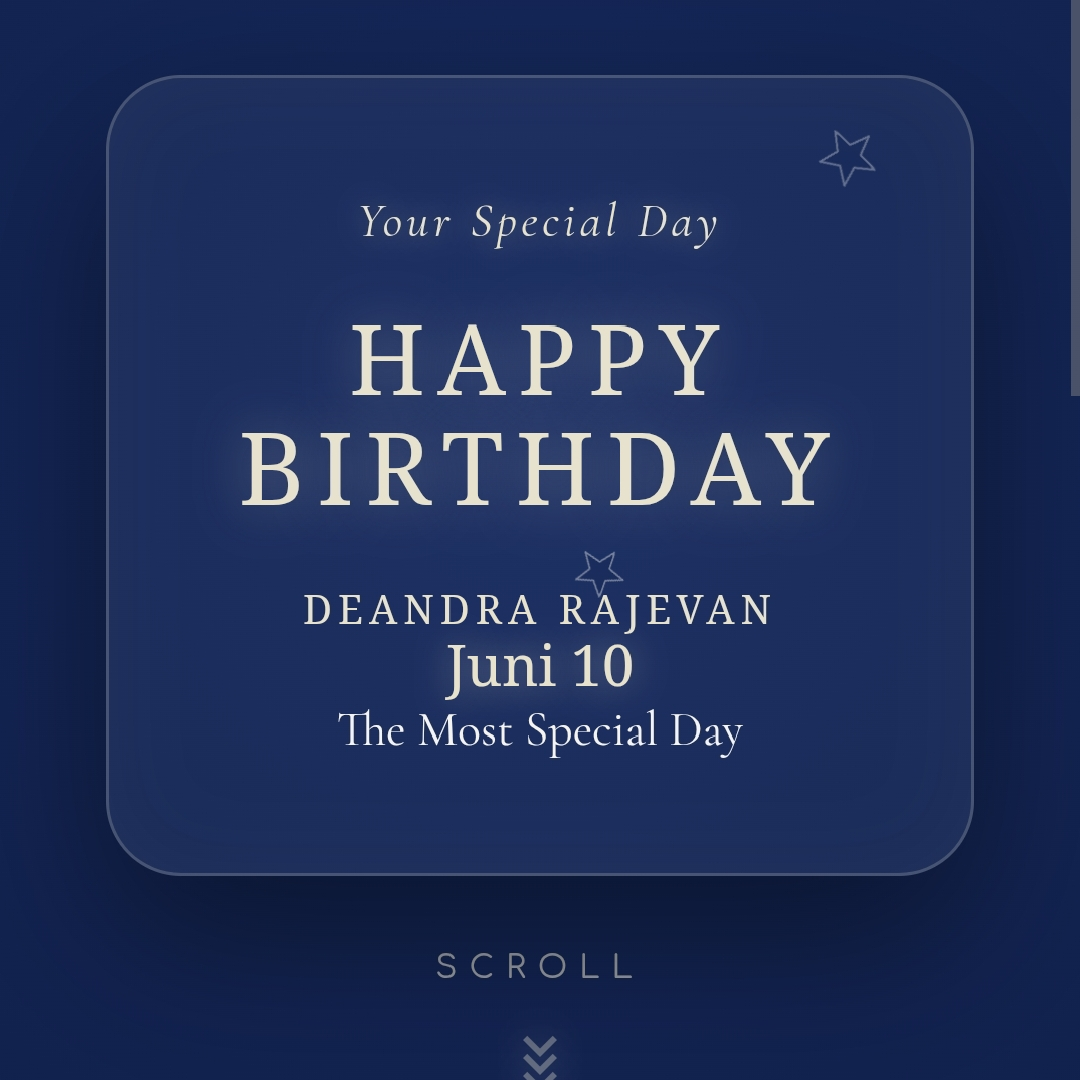
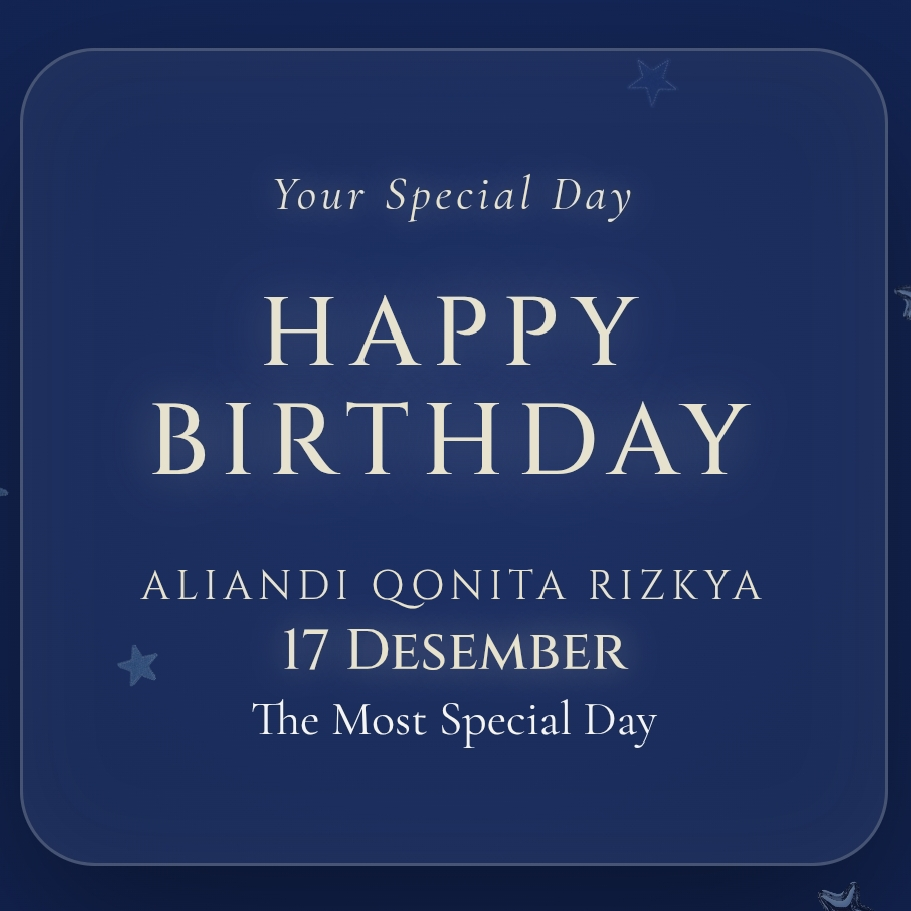
Add files via upload

diff --git a/index.html b/index.html
@@ -7,13 +7,13 @@
     
     <meta property="og:title" content="Astroluv | Aliandi's Day">
     <meta property="og:description" content="written in the stars, built for the main character.">
-    <meta property="og:image" content="https://by-luneva.github.io/astroluv/thumbnail.png?v=3">
-    <meta property="og:url" content="https://by-luneva.github.io/astroluv/">
+    <meta property="og:image" content="https://by-luneva.github.io/hbd_qonita/thumbnail.png?v=3">
+    <meta property="og:url" content="https://by-luneva.github.io/hbd_qonita/">
     <meta property="og:type" content="website">
     <meta name="twitter:card" content="summary_large_image">
     <meta name="twitter:title" content="Astroluv | Aliandi's Day">
     <meta name="twitter:description" content="written in the stars, built for the main character.">
-    <meta name="twitter:image" content="https://by-luneva.github.io/astroluv/thumbnail.png?v=3">
+    <meta name="twitter:image" content="https://by-luneva.github.io/hbd_qonita/thumbnail.png?v=3">
 
     <link rel="preconnect" href="https://fonts.googleapis.com">
     <link rel="preconnect" href="https://fonts.gstatic.com" crossorigin>
@@ -140,9 +140,12 @@
         .control-btn svg { width: 22px; height: 22px; fill: currentColor; }
         .play-main-btn svg { width: 28px; height: 28px; }
         .playlist-card { background: rgba(255,255,255,0.03); border: 1px solid rgba(231,226,206,0.12); padding: 10px; border-radius: 16px; margin-top: 14px; width: 100%; max-width: 290px; margin-inline: auto; box-shadow: 0 12px 32px rgba(0,0,0,0.35); }
-        .track { background: rgba(255,255,255,0.022); padding: 11px 14px; margin: 6px 0; border-radius: 12px; cursor: pointer; display: grid; grid-template-columns: 1.2fr 1fr; font-size: 9pt; font-family: 'Comfortaa', sans-serif; transition: background 0.2s ease, transform 0.2s ease, border-color 0.2s ease; border: 1px solid transparent; }
+        .track { background: rgba(255,255,255,0.022); padding: 11px 14px; margin: 6px 0; border-radius: 12px; cursor: pointer; display: flex; justify-content: space-between; align-items: center; font-size: 9pt; font-family: 'Comfortaa', sans-serif; transition: background 0.2s ease, transform 0.2s ease, border-color 0.2s ease; border: 1px solid transparent; }
+        .track span:first-child { flex: 1; text-align: left; }
+        .track span:last-child { text-align: right; color: rgba(245, 244, 240, 0.7); }
         .track:hover { background: rgba(231, 226, 206, 0.09); border-color: rgba(231,226,206,0.22); }
         .track.active { background: #E7E2CE; color: #112250; font-weight: bold; box-shadow: 0 0 18px rgba(231,226,206,0.6); }
+        .track.active span:last-child { color: #112250; }
 
         .cosmic-star-container { display: flex; flex-direction: column; justify-content: center; align-items: center; margin: 30px 0 18px 0; position: relative; }
         .star-glow-ring { position: absolute; width: 105px; height: 105px; border-radius: 50%; background: radial-gradient(circle, rgba(231,226,206,0.3) 0%, transparent 70%); animation: ringPulse 2.5s ease-in-out infinite; pointer-events: none; }
@@ -214,7 +217,7 @@
                     <button class="key" onclick="App.pressKey('0')">0</button>
                     <button class="key" onclick="App.pressKey('✓')"><svg viewBox="0 0 24 24"><path d="M9 16.17L4.83 12l-1.42 1.41L9 19 21 7l-1.41-1.41z"/></svg></button>
                 </div>
-                <div class="bottom-hint">Hint: tanggal & bulan lahir (17 Desember)</div>
+                <div class="bottom-hint">Hint: tanggal & bulan lahir</div>
             </div>
         </div>
 
@@ -372,7 +375,7 @@
             const assets = ['1-loading-kaset.png', 'kado-tutup.png', 'kado-kotak.png', 'planet1.png', 'planet2.png', 'planet3.png', 'planet4.png', 'planet5.png', 'planet6.png', 'planet7.png', 'planet8.png', 'planet9.png', 'planet10.png', 'thumbnail.png', 'Jatuh Suka.jpg', 'Hujan.jpg', 'Tujuh Belas.jpg', 'TULUS - Jatuh Suka.mp3', 'Utopia - Hujan.mp3', 'TULUS - Tujuh Belas.mp3'];
 
             let loaded = 0, enteredPin = "", lastInputTime = 0, currentTrackIndex = -1, isPlaying = false;
-            const CORRECT_PIN = "1712"; // 17 Desember
+            const CORRECT_PIN = "1712";
             const tracks = [
                 { title: 'Jatuh Suka', artist: 'Tulus', id: 't1', cover: 'Jatuh Suka.jpg', src: 'TULUS - Jatuh Suka.mp3' },
                 { title: 'Hujan', artist: 'Utopia', id: 't2', cover: 'Hujan.jpg', src: 'Utopia - Hujan.mp3' },
